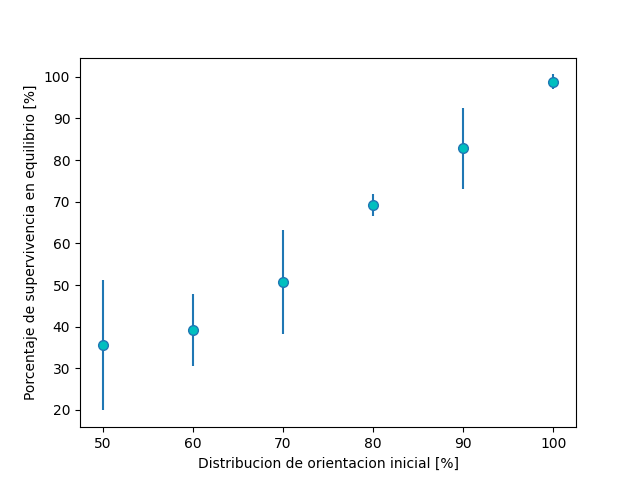
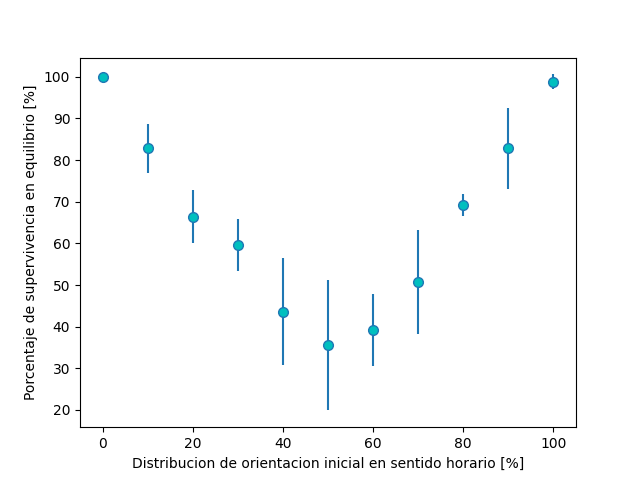
final commit

diff --git a/src/ovito/Ovito.java b/src/ovito/Ovito.java
@@ -34,7 +34,7 @@ public class Ovito {
                     file.write(p.getId() + " " + p.getX() + " " + p.getY() + " " + p.getRadius() + " " + "0" + "\n");
                 }
                 else {
-                    file.write(p.getId() + " " + p.getX() + " " + p.getY() + " " + p.getRadius() + " " + (p.orientation() == Orbit.Orientation.CLOCK ? "1" : "-1") + "\n");
+                    file.write(p.getId() + " " + p.getX() + " " + p.getY() + " " + p.getRadius() + " " + (p.getOrientation() == Orbit.Orientation.CLOCK ? "1" : "-1") + "\n");
                 }
             }
             file.close();

diff --git a/src/model/Particle.java b/src/model/Particle.java
@@ -112,6 +112,16 @@ public class Particle {
         orientationBuffer.add(o);
     }
 
+    public Orbit.Orientation getOrientation() {
+        if (x > 0) {
+            return vy > 0 ? Orbit.Orientation.COUNTER : Orbit.Orientation.CLOCK;
+        } else if (x < 0) {
+            return vy < 0 ? Orbit.Orientation.COUNTER : Orbit.Orientation.CLOCK;
+        } else {
+            return vx > 0 ? Orbit.Orientation.CLOCK : Orbit.Orientation.COUNTER;
+        }
+    }
+
     private double getFx(){
         return mass * ax;
     }

diff --git a/src/analysis/plotter.py b/src/analysis/plotter.py
@@ -79,8 +79,8 @@ def plot_results(y_label, plot_function):
 
 #plot_results('Energía total [J]', plot_total_energy)
 #plot_results('Energía cinética [J]', plot_kinetic_energy)
-#plot_results('% de partículas en sentido horario', plot_clockwise_particles)
+plot_results('% de partículas en sentido horario', plot_clockwise_particles)
 #plot_results('Colisiones', plot_collisions)
 #plot_results('Cantidad de partículas', plot_count)
 
-plot_survivors(N=20)
+#plot_survivors(N=50)

diff --git a/src/simulation/Orbit.java b/src/simulation/Orbit.java
@@ -139,6 +139,9 @@ public class Orbit {
 
             particleHistory.addAll(overlappingSun);
             livingParticles.removeAll(overlappingSun(livingParticles));
+
+
+
             time += dt;
 
             if (exportFrames && i % OVITO_DT == 0) {
